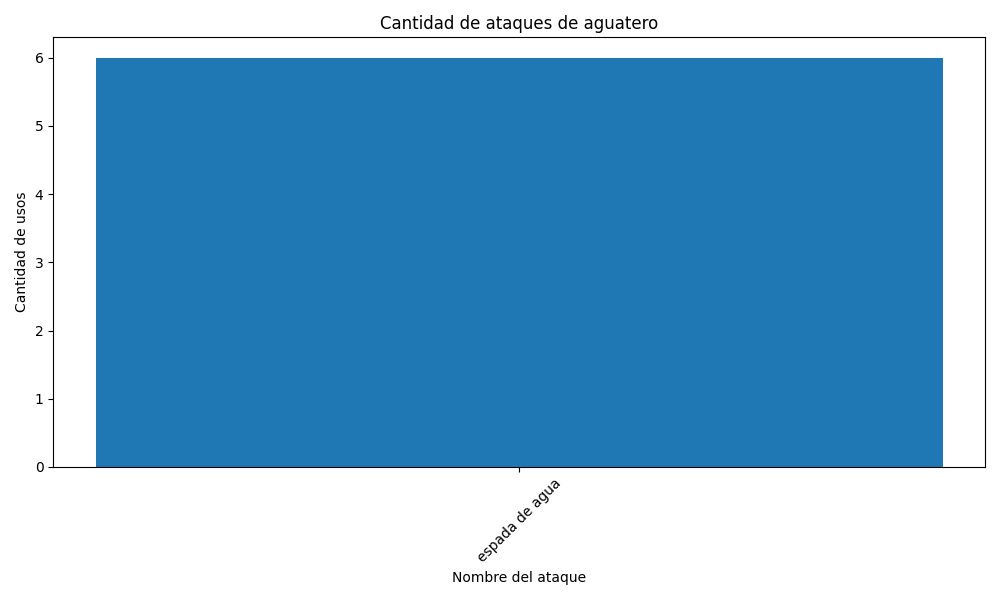
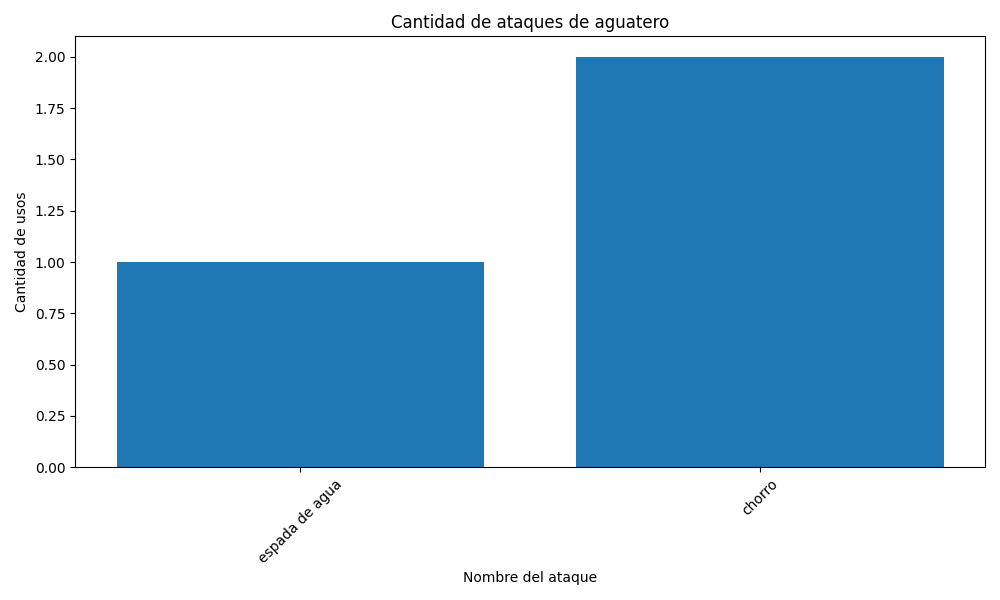
Attacks recharge fixed

diff --git a/battle/solo.py b/battle/solo.py
@@ -28,9 +28,14 @@ class SoloBattle(Battle):
         self.move_counter = 0
 
         while self.robot_1.get_energy() > 0 and self.robot_2.get_energy() > 0: 
+            # Actualizar el contador de cada ataque
+            self.robot_1.update_attacks_recharge()
+            self.robot_2.update_attacks_recharge()
+
             #turnos impares, crea un ataque y luego le asigna el danio de este al otro robot, luego revisa si la vida del contrincante a disminuido a 0
             attack_1 = self.robot_1.get_move()
             if random.randint(1,100) <= attack_1.get_precision():
+                #attack_1.set_recharge()
                 self.robot_2.receive_damage(attack_1.get_damage())
                 self.stats['turns'] += 1
                 self.stats[self.r1_name]['attacks'].append(attack_1.get_description())
@@ -49,6 +54,7 @@ class SoloBattle(Battle):
             #turnos pares
             attack_2 = self.robot_2.get_move()
             if random.randint(1,100) <= attack_2.get_precision():
+                #attack_2.set_recharge()
                 self.robot_1.receive_damage(attack_2.get_damage())
                 self.stats['turns'] += 1
                 self.stats[self.r2_name]['attacks'].append(attack_2.get_description())

diff --git a/menus.py b/menus.py
@@ -1,11 +1,40 @@
+# nada de esto esta implementado, ni siquiera esta terminado el "diseño"
+# Python packages
+from abc import ABC, abstractmethod
+
+# Program specific packages
 from battle import *
 
 
 
-class main:
+class Menu(ABC):
+   @abstractmethod
+   @classmethod
+   def get_menu(cls) -> str:
+       ... 
+
+# Que va qui? no lo se 
+class MainMenu(Menu):
+    @abstractmethod
+    @classmethod
+    def get_menu(cls) -> str:
+        return super().get_menu()
+
+# Seleccion participativo/automatico
+class GameModes:
     @classmethod
     def get_menu(cls):
-        return "hola"
+        text = f'''
+Participativo
+Automatico
+'''
+        return
 
 
-print(main.get_menu())
+# Para modo de juego participativo
+class TeamSelection(Menu):
+    ...
+
+class RobotSelection(Menu):
+    ...
+

diff --git a/robots/robot_obj.py b/robots/robot_obj.py
@@ -73,6 +73,8 @@ class Robot:
         available_attack_keys = [aname for aname, attack in self.attacks.items()
                            if attack.is_available()]
         selection = random.choice(available_attack_keys)
+        # agregar contador de ataque
+        self.attacks[selection].set_recharge()
         return self.attacks[selection]
     
     def get_attack(self, name: str) -> Attack:
@@ -103,4 +105,8 @@ class Robot:
             #print(at)
             text += f"({i}) {at[1].get_description()}\n"
         return f"{self.name} attacks:\n\n{text}"
+    
+    def update_attacks_recharge(self):
+        for k, at in self.attacks.items():
+            at.update_recharge()
     
